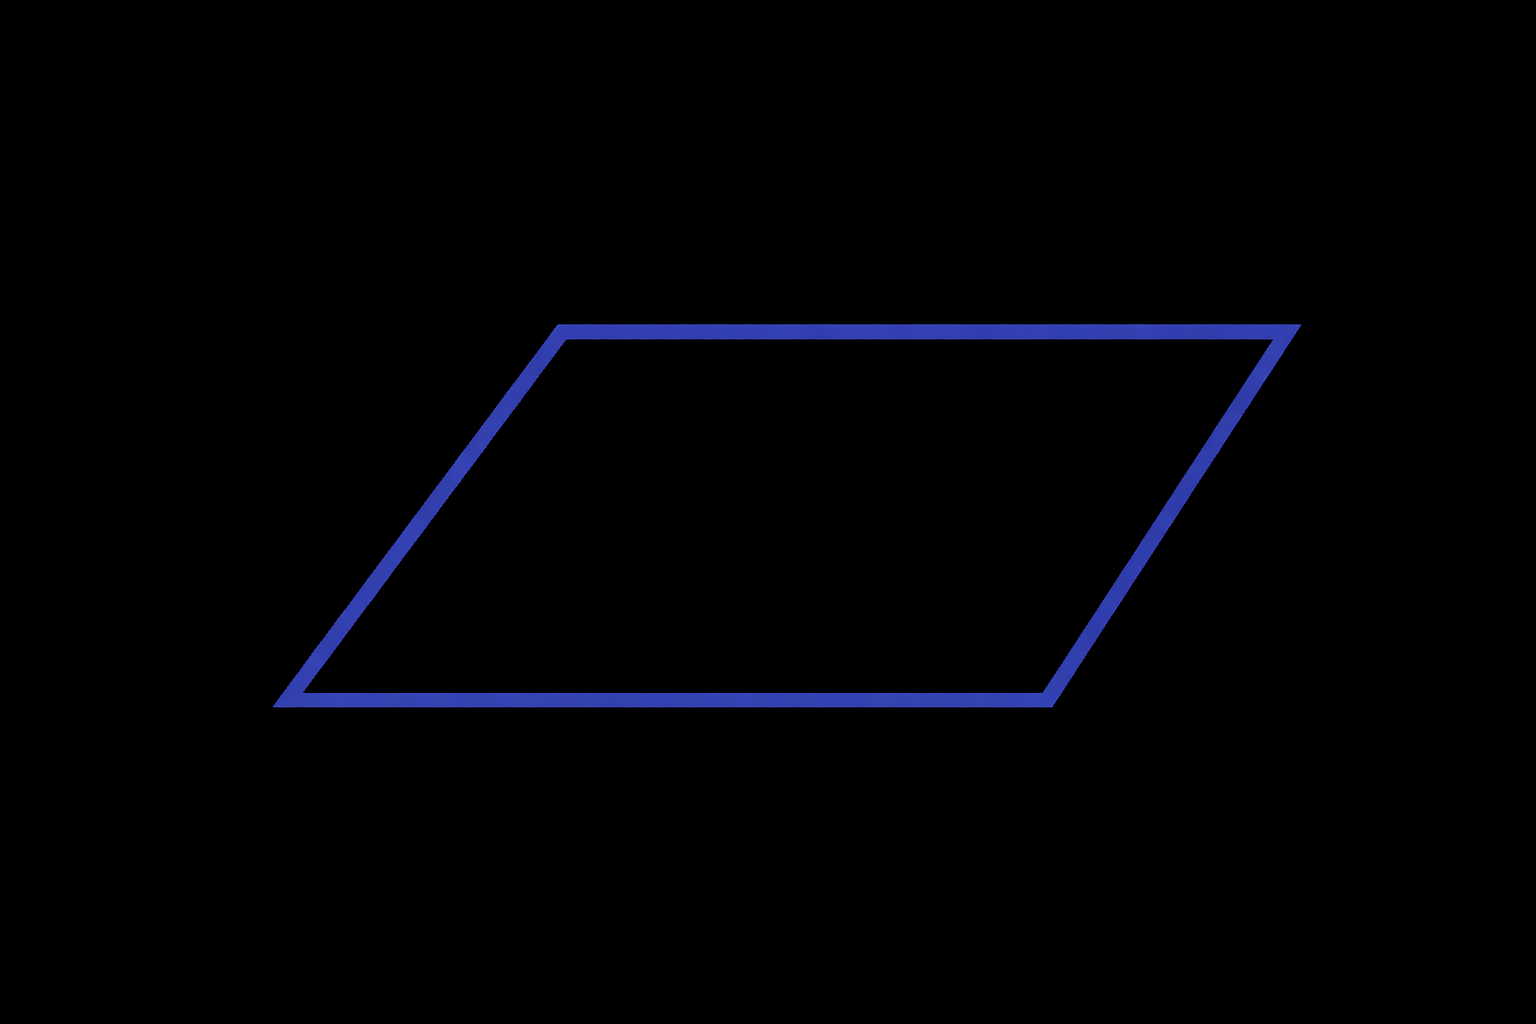
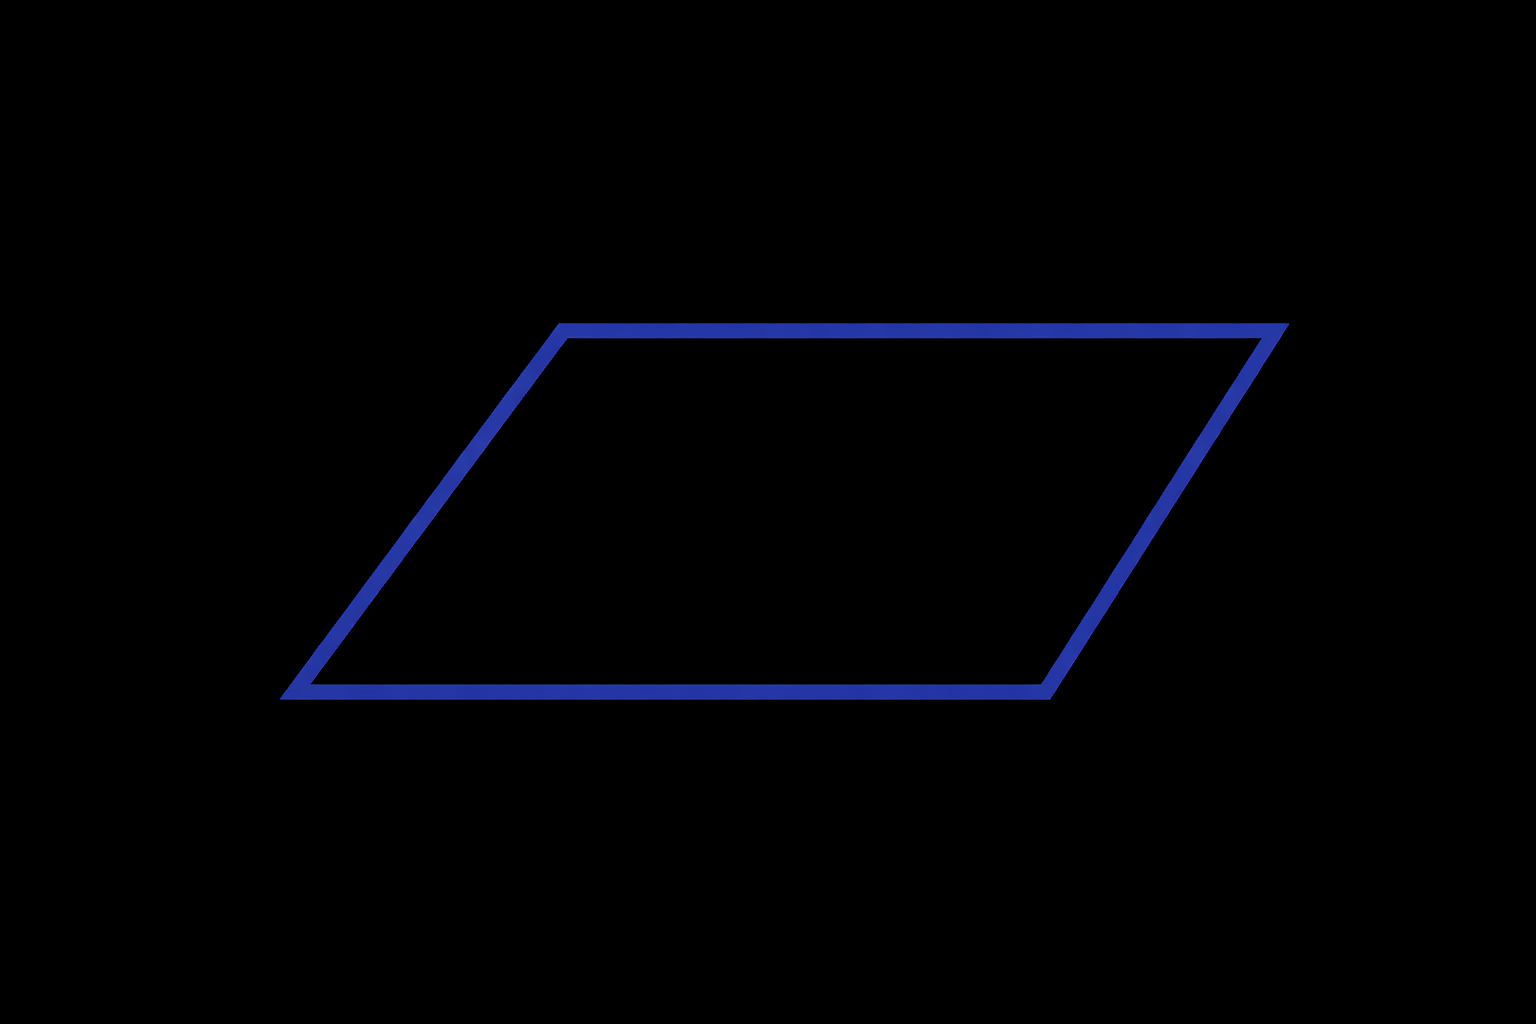
debuging

Changed region(s): [[0.1875, 0.5938, 0.7188, 0.7188], [0.375, 0.3125, 0.8438, 0.5938]]

diff --git a/SPV 2 C# Graphics-Edition by shipovskijkorp/Form1.cs b/SPV 2 C# Graphics-Edition by shipovskijkorp/Form1.cs
@@ -1109,6 +1109,7 @@ namespace SPV_2_C__Graphics_Edition_by_shipovskijkorp
 
         private void Sqr_Click(object sender, EventArgs e)
         {
+            HideFormulaButtons();
             currentAction = ActionArea;
             ShowResult();
 
@@ -1145,6 +1146,7 @@ namespace SPV_2_C__Graphics_Edition_by_shipovskijkorp
 
         private void Per_Click(object sender, EventArgs e)
         {
+            HideFormulaButtons();
             currentAction = ActionPerimeter;
             ShowResult();
 
@@ -1173,6 +1175,7 @@ namespace SPV_2_C__Graphics_Edition_by_shipovskijkorp
 
         private void Vol_Click(object sender, EventArgs e)
         {
+            HideFormulaButtons();
             currentAction = ActionVolume;
             ShowResult();
 

diff --git a/SPV 2 C# Graphics-Edition by shipovskijkorp/Properties/Resources.Designer.cs b/SPV 2 C# Graphics-Edition by shipovskijkorp/Properties/Resources.Designer.cs
@@ -121,16 +121,6 @@ namespace SP_2_C__Graphics_Edition_by_shipovskijkorp.Properties {
         }
         
         /// <summary>
-        ///   Поиск локализованного ресурса типа System.Byte[].
-        /// </summary>
-        internal static byte[] photo_2026_02_18_12_42_42_2 {
-            get {
-                object obj = ResourceManager.GetObject("photo_2026-02-18_12-42-42_2", resourceCulture);
-                return ((byte[])(obj));
-            }
-        }
-        
-        /// <summary>
         ///   Поиск локализованного ресурса типа System.Drawing.Bitmap.
         /// </summary>
         internal static System.Drawing.Bitmap Pir {
